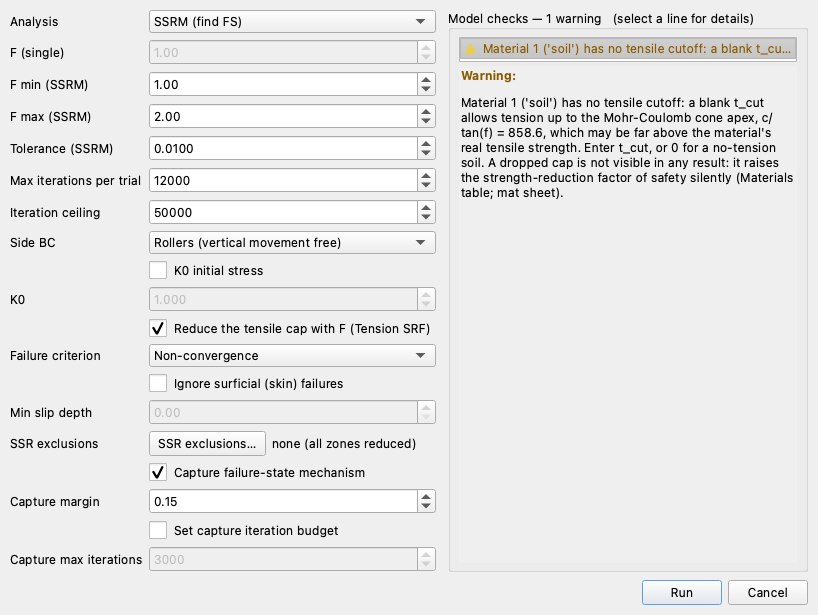
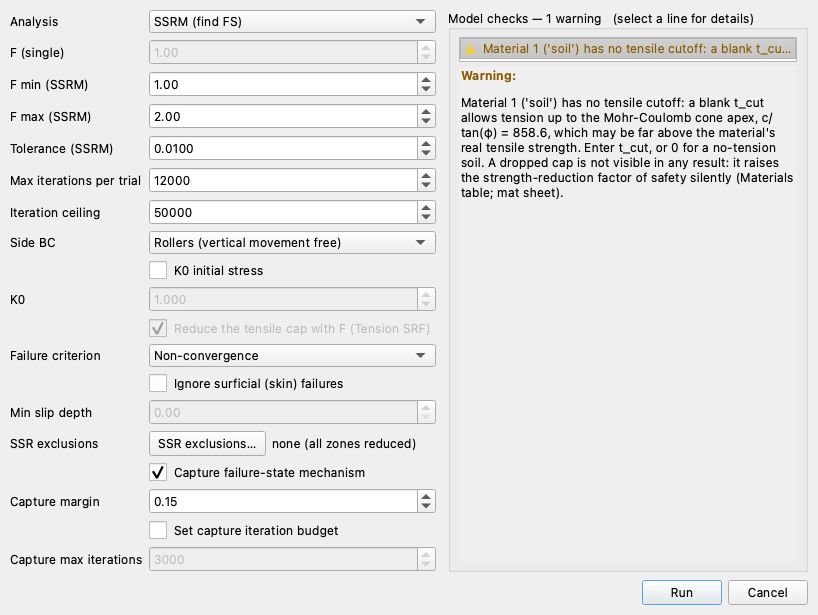
studio(run fem): the Tension SRF box is dimmed when no material declares a tensile cutoff
With every t_cut blank the box has nothing to act on, so it is offered only
when a strength-bearing material carries a cap; the tooltip says why it is
dimmed. FEM-1's Run FEM screenshot regenerated (its model keeps the blank cap
to reproduce Griffiths & Lane) and its sentence says the box is dimmed there.

Claude-Session: https://claude.ai/code/session_01XjjT2aBxw8gY7EFdpoUcpj

Changed region(s): [[0.5807, 0.1854, 0.9474, 0.2472], [0.1834, 0.5252, 0.5196, 0.5561]]

diff --git a/studio/dialogs.py b/studio/dialogs.py
@@ -653,15 +653,14 @@ class RunFemDialog(QDialog):
         # Tension SRF (v19). A no-op on a model with no tensile cap anywhere.
         self.tension_srf = QCheckBox("Reduce the tensile cap with F (Tension SRF)")
         self.tension_srf.setChecked(bool(defaults.get("tension_srf", True)))
-        self.tension_srf.setToolTip(
+        self._tension_srf_tip = (
             "Divide each material's tensile-strength cap by the trial F alongside c "
             "and tan(phi), so the factor of safety is the factor on the WHOLE "
             "strength envelope — shear and tensile.\n\n"
             "This is RS2's tensilestrength_SRF = 1 (the setting behind its published "
             "verification set) and what Plaxis does. Off holds each cap at its "
-            "authored value through the bisection.\n\n"
-            "No-op without a cap: on a model that sets no t_cut there is nothing to "
-            "reduce and the two settings solve identically.")
+            "authored value through the bisection.")
+        self.tension_srf.setToolTip(self._tension_srf_tip)
         form.addRow("", self.tension_srf)
 
         self.failure_criterion = QComboBox()
@@ -822,6 +821,19 @@ class RunFemDialog(QDialog):
         self._ok.setEnabled(reason is None)
         self._ok.setToolTip(reason or "")
 
+    def _model_has_tensile_cap(self):
+        """Whether any strength-bearing material on the model declares a t_cut."""
+        for m in (self._sd or {}).get("materials") or []:
+            if str(m.get("option") or "").strip().lower() in ("", "elastic"):
+                continue
+            v = m.get("t_cut")
+            try:
+                if v is not None and float(v) == float(v):   # finite, not NaN
+                    return True
+            except (TypeError, ValueError):
+                continue
+        return False
+
     def _sync_enabled(self):
         a = self.analysis.currentData()
         single = a == "single"
@@ -833,8 +845,15 @@ class RunFemDialog(QDialog):
         self.tolerance.setEnabled(a == "ssrm")
         # K0 initialization applies to both a single trial and the SSRM.
         self.k0.setEnabled(self.k0_on.isChecked())
-        # The tensile cap is only reduced during a strength reduction.
-        self.tension_srf.setEnabled(not single)
+        # The tensile cap is only reduced during a strength reduction, and only
+        # exists on a model whose materials declare one: with every t_cut blank
+        # the box has nothing to act on, so it is dimmed rather than offered.
+        has_cap = self._model_has_tensile_cap()
+        self.tension_srf.setEnabled((not single) and has_cap)
+        self.tension_srf.setToolTip(self._tension_srf_tip + (
+            "" if has_cap else
+            "\n\nDimmed: no material on this model declares a t_cut, so there is "
+            "no cap to reduce."))
         # Surficial-failure filter applies to the SSRM criterion only.
         self.min_slip_on.setEnabled(a == "ssrm")
         self.min_slip_depth.setEnabled(a == "ssrm" and self.min_slip_on.isChecked())

diff --git a/docs/tutorials/fem01_strength_reduction.md b/docs/tutorials/fem01_strength_reduction.md
@@ -333,7 +333,8 @@ start at 0.
 works through the cap and its effects. The **Reduce the tensile cap with F
 (Tension SRF)** checkbox above decides whether the tensile cutoff is divided by
 the trial factor along with *c* and tan φ (on), or held at the value you
-entered (off). With no cutoff entered it has nothing to act on.
+entered (off). With no cutoff entered it has nothing to act on, so it is
+dimmed here.
 
 The rest of the dialog opens on the defaults this run wants. **Analysis** is
 **SSRM (find FS)**. **F min** and **F max** are 1.00 and 2.00, the ends of the
